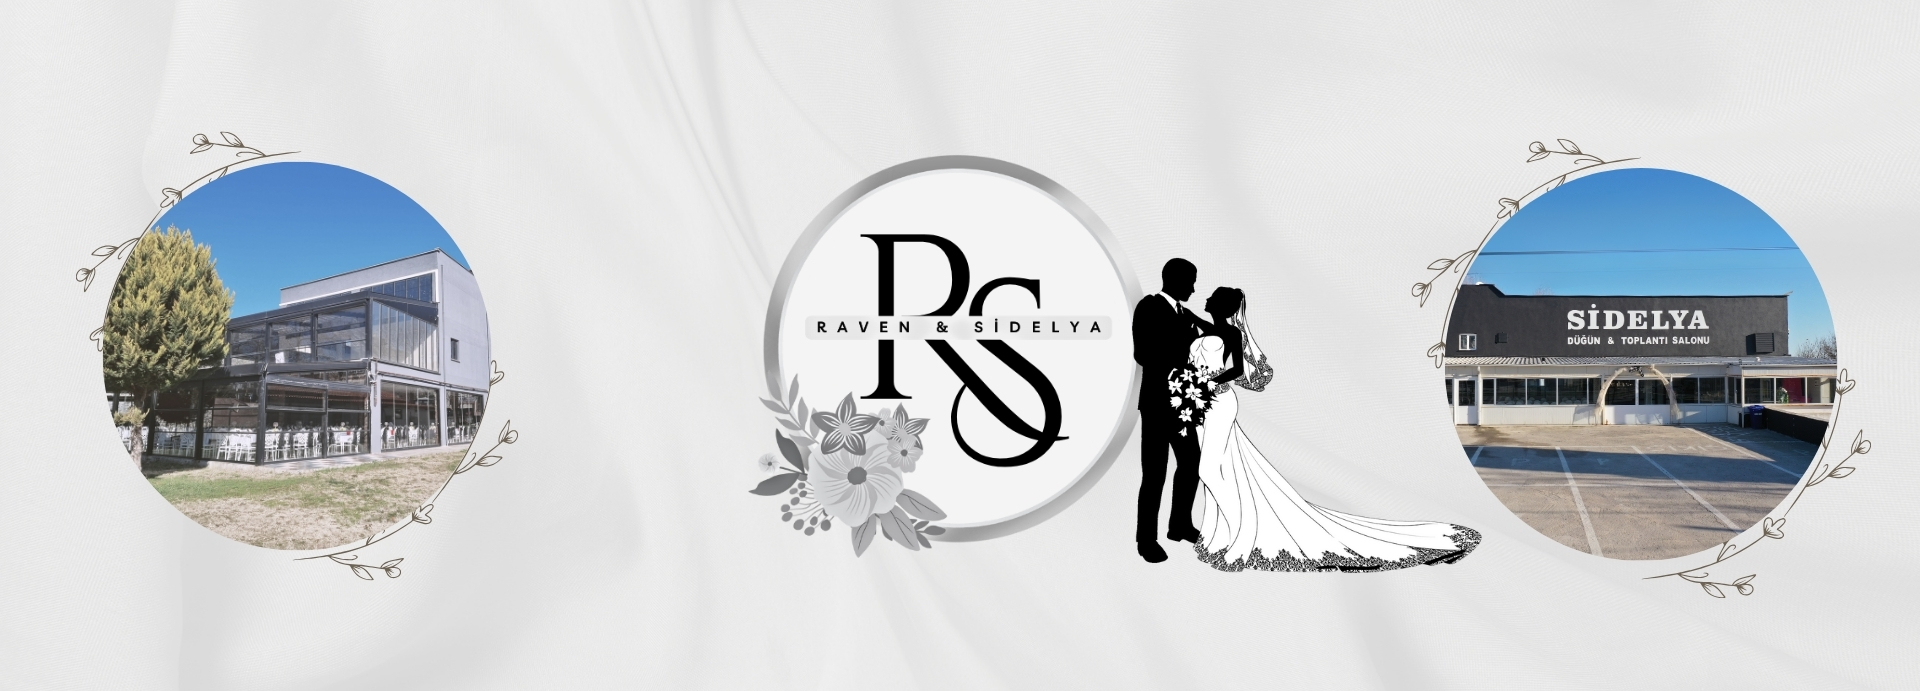
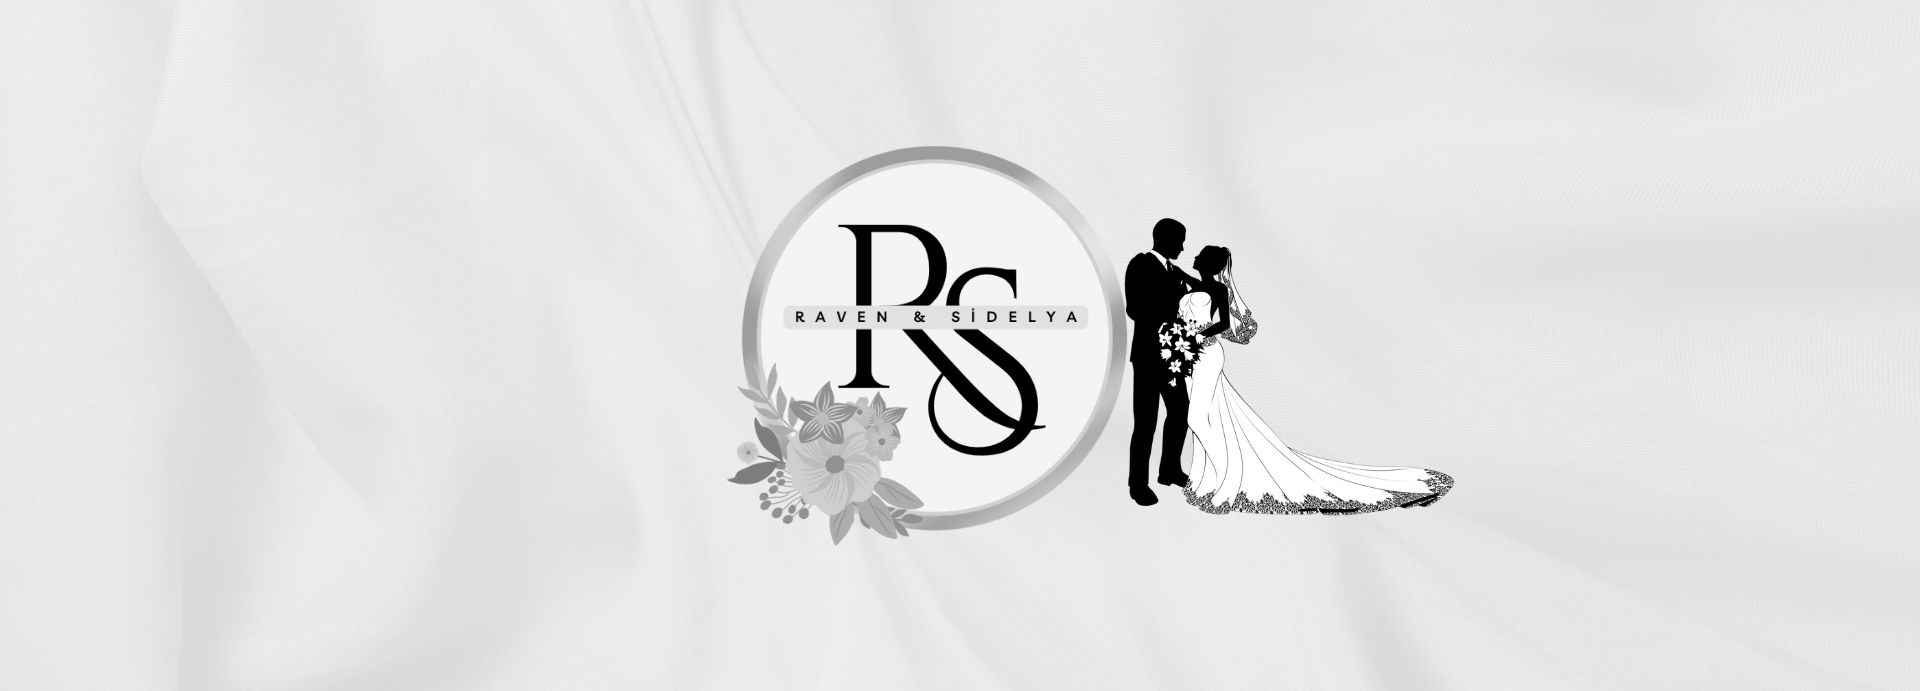
.

diff --git a/style.css b/style.css
@@ -3719,108 +3719,7 @@ blockquote {
     -webkit-transition: all .3s ease;
 }
 
-.circle-button-wrapper {
-    display: flex;
-    justify-content: center;
-    align-items: center;
-    height: 100%;
-    /* Yüksekliği tam kapsar */
-}
 
-.circle-button {
-    position: relative;
-    display: flex;
-    justify-content: center;
-    align-items: center;
-    width: 25vw;
-    /* Ekran genişliğine göre boyut */
-    height: 25vw;
-    /* Ekran genişliğine göre boyut */
-    max-width: 250px;
-    /* Maksimum genişlik */
-    max-height: 250px;
-    /* Maksimum yükseklik */
-    border-radius: 50%;
-    /* Yuvarlak görünüm */
-    overflow: hidden;
-    /* Yuvarlak alanda içerik taşmasını önler */
-    text-decoration: none;
-    /* Altı çizgi yok */
-    color: white;
-    /* Yazı rengi */
-    font-size: 24px;
-    /* Yazı boyutu */
-    font-weight: bold;
-    /* Kalın yazı */
-    transition: transform 0.3s ease;
-    /* Hover geçişi */
-}
-
-/* Arka plan resimleri */
-.raven-button {
-    background-image: url('images/sidelya10.png');
-    /* Raven fotoğrafı */
-    background-size: cover;
-    /* Arka planı kapsar */
-    background-position: center;
-    /* Merkezden görüntüler */
-}
-
-.sidelya-button {
-    background-image: url('images/sidelya4.jpg');
-    /* Sidelya fotoğrafı */
-    background-size: cover;
-    /* Arka planı kapsar */
-    background-position: center;
-    /* Merkezden görüntüler */
-}
-
-/* Yuvarlak buton üzerine gelindiğinde */
-.circle-button:hover {
-    transform: scale(1.1);
-    /* Hover ile büyütme */
-}
-
-/* Buton altındaki yazı */
-.circle-image {
-    width: 100%;
-    /* Resim tam butonu kapsar */
-    height: 100%;
-    /* Resim tam butonu kapsar */
-    position: absolute;
-    top: 0;
-    left: 0;
-    z-index: -1;
-    /* Resmi arka plana alır */
-}
-
-.circle-button span {
-    position: relative;
-    /* Yazıyı konumlandır */
-    z-index: 1;
-    /* Yazıyı ön planda tutar */
-    text-align: center;
-    /* Yazıyı ortala */
-}
-
-/* Responsive ayarlar */
-@media (max-width: 1200px) {
-    .circle-button {
-        width: 20vw;
-        /* Daha küçük ekranlar için boyut */
-        height: 20vw;
-        /* Daha küçük ekranlar için boyut */
-    }
-}
-
-@media (max-width: 768px) {
-    .circle-button {
-        width: 30vw;
-        /* Tablet boyutları için boyut */
-        height: 30vw;
-        /* Tablet boyutları için boyut */
-    }
-}
 
 
     .slider-desc {
